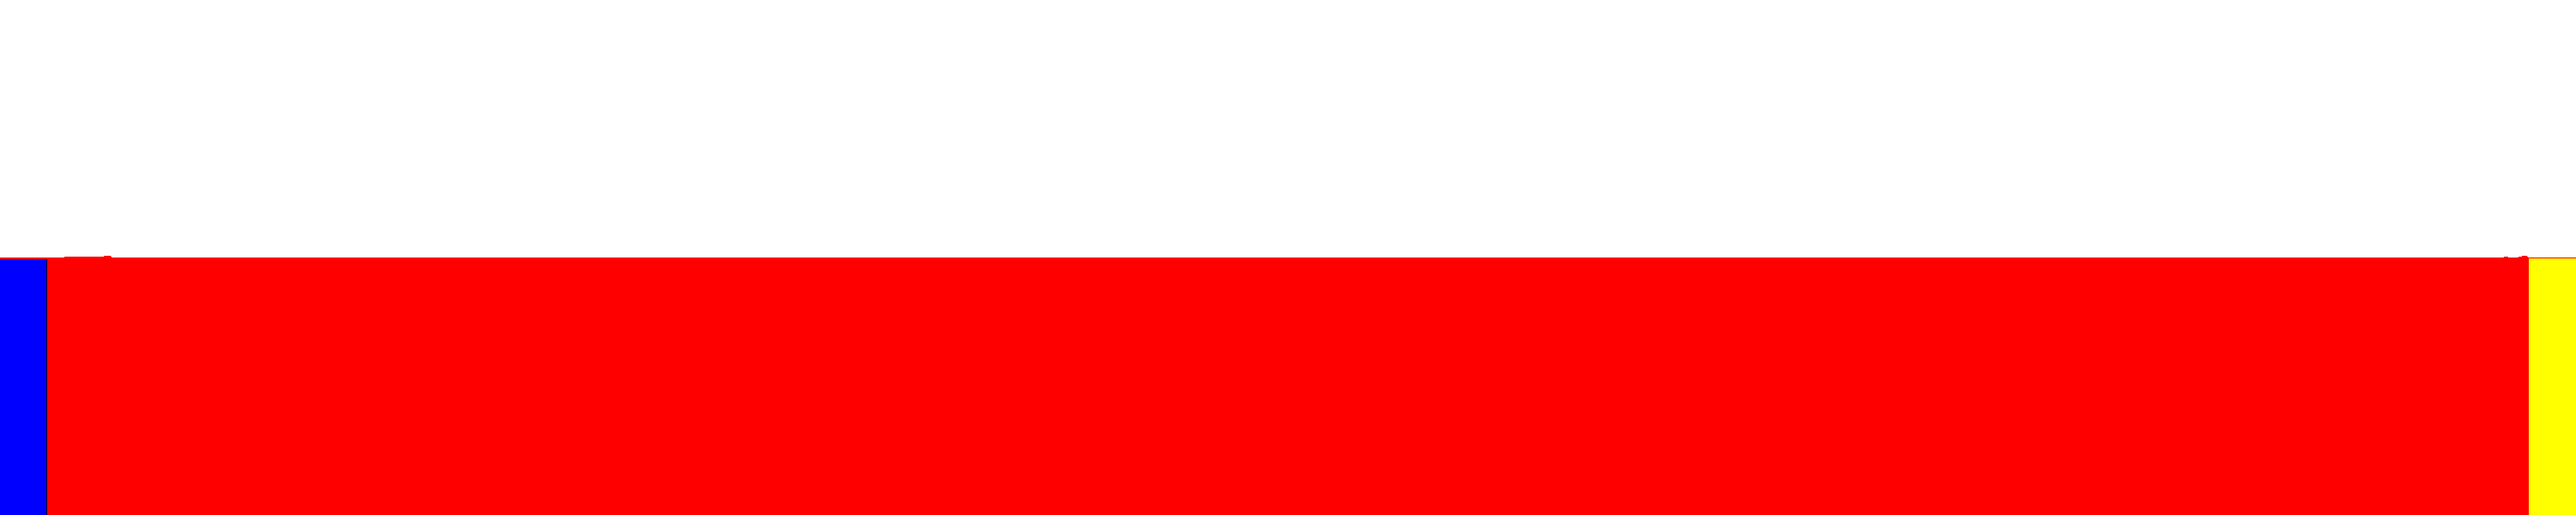
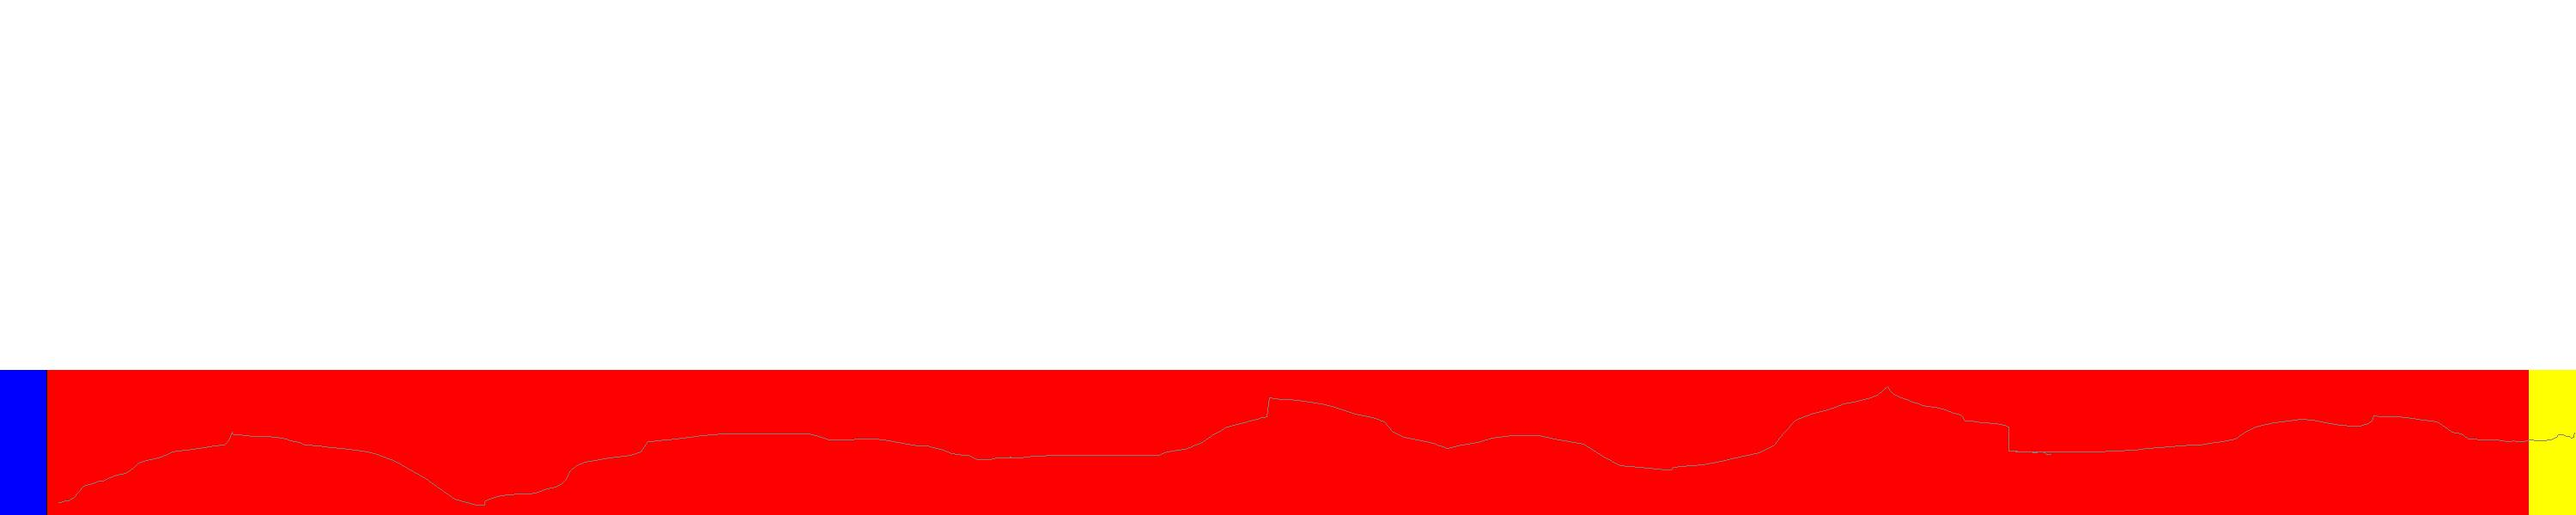
Seteo imagenes por defecto, integramos las capas por xml

diff --git a/Juego.cpp b/Juego.cpp
@@ -326,8 +326,46 @@ public:
 		screenHeight = stoi(ventanaAlto);
 		levelWidth = stoi(nivelAncho);
 		levelHeight = stoi(nivelAlto);
+	}
+
+	void recibirCapas(){
 		cout <<"RECIBIENDO BACKGROUND"<< endl;
-		stream = cliente->recibir_nueva_vista();
+
+		while (true) {
+
+			string stream = cliente->recibir_nueva_vista();
+
+			if (stream == "$\n") break;
+
+			string path = "";
+			string ancho = "";
+			string zindex = "";
+
+			string* variables[] = {&path, &ancho, &zindex};
+
+			int j = 0;
+
+			for (int i=0; i<stream.size() - 1; i++) {
+
+				char actual = stream[i];
+
+				if (actual == '$') {
+					j++;
+					continue;
+				}
+
+				*(variables[j]) += actual;
+			}
+
+
+			char *path_c = new char[path.length() + 1];
+			strcpy(path_c, path.c_str());
+
+			if(!(fondo->agregar(path_c)) ){
+				printf( "Failed to load media!\n" );
+			}
+
+		}
 	}
 
 
@@ -414,6 +452,13 @@ int main( int argc, char** argv) {
 		return 1;
 	}
 
+	// Seteo el fondo
+	Background fondo(juego.getRenderer());
+	juego.setBackground(&fondo);
+	juego.recibirCapas();
+	fondo.prepararEscenario();
+
+
 	while (true) {
 
 		string nuevaVista = cliente.recibir_nueva_vista();
@@ -445,14 +490,6 @@ int main( int argc, char** argv) {
 
 	}
 
-	Background fondo(juego.getRenderer());
-	juego.setBackground(&fondo);
-
-	if(!fondo.agregar("imag/background/gris.png") || !fondo.agregar("imag/background/rojo.png")){
-		printf( "Failed to load media!\n" );
-	}
-
-	fondo.prepararEscenario();
 
 	//Main loop flag
 	bool quit = false;

diff --git a/VistaPersonaje.cpp b/VistaPersonaje.cpp
@@ -107,6 +107,7 @@ bool VistaPersonaje::cargarImagen(){
 	if( !TEXTURA_PERSONAJE_PARADO->cargarImagen( pathQuieto) )
 	{
 		printf( "Fallo sprite parado\n" );
+		TEXTURA_PERSONAJE_PARADO->cargarImagen( "imag/cruz/quieto.png");
 		success = false;
 	}
 	else
@@ -123,6 +124,7 @@ bool VistaPersonaje::cargarImagen(){
 	if( !TEXTURA_PERSONAJE_CORRIENDO->cargarImagen( pathCorriendo) )
 	{
 		printf( "Fallo sprite corriendo\n" );
+		TEXTURA_PERSONAJE_PARADO->cargarImagen( "imag/cruz/corriendo.png");
 		success = false;
 	}
 	else{
@@ -137,6 +139,7 @@ bool VistaPersonaje::cargarImagen(){
 	if( !TEXTURA_PERSONAJE_SALTANDO->cargarImagen( pathSaltando) )
 	{
 		printf( "Fallo sprite saltando\n" );
+		TEXTURA_PERSONAJE_PARADO->cargarImagen( "imag/cruz/saltando.png");
 		success = false;
 	}
 	else{

diff --git a/ObjectManager.cpp b/ObjectManager.cpp
@@ -141,15 +141,20 @@ void ObjectManager::enviarEscenario(ParserXML *parser, int FD) {
 	ssize_t bytesEscritos = write(FD, mensajeChar, msj.size());
 	if (bytesEscritos < 0)
 		perror("ERROR --> No se pudo envair personaje");
-	msj="";
-	for (int i=0; i<4 ; i++ ){
-		msj = msj + capas[i];
+
+	for (int i = 0 ; i < capas.size() ; i++){
+		msj = "";
+		msj = capas[i] + "\n";
+		const char* mensaje = msj.c_str();
+
+		bytesEscritos = write(FD, mensaje, msj.size());
+
+		if (bytesEscritos < 0)
+			perror("ERROR --> No se pudo envair personaje");
+
 	}
-	msj= msj +"\n";
-	const char* mensaje = msj.c_str();
-	bytesEscritos = write(FD, mensaje, msj.size());
-	if (bytesEscritos < 0)
-		perror("ERROR --> No se pudo envair personaje");
+
+	write(FD, "$\n", 2);
 
 }
 

diff --git a/Layer.cpp b/Layer.cpp
@@ -55,8 +55,9 @@ void Layer::scrollear(int posJugadorx){
 bool Layer::cargarImagen(char* path){
     if (!fondo->cargarImagen(path)){
         cout << "error cargando imagen, en agregar Background" << endl;
-        return false;
     }
+    if (!fondo->cargarImagen("imag/background/cruz.png"))
+        return false;
 
     ancho = fondo->getAncho();
     alto = fondo->getAlto();
